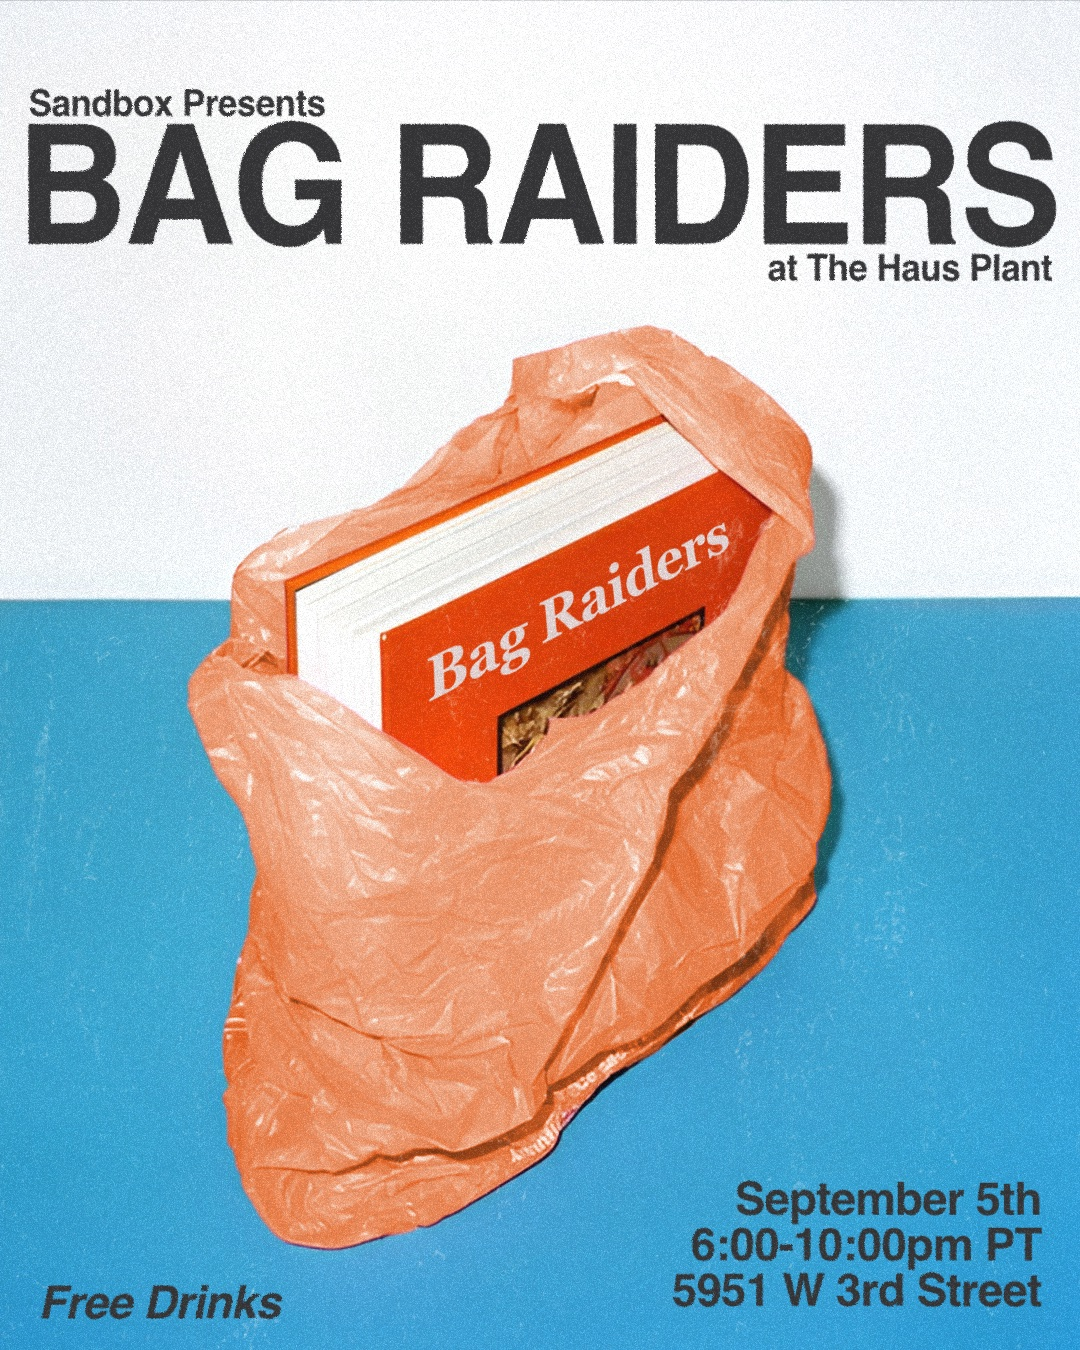
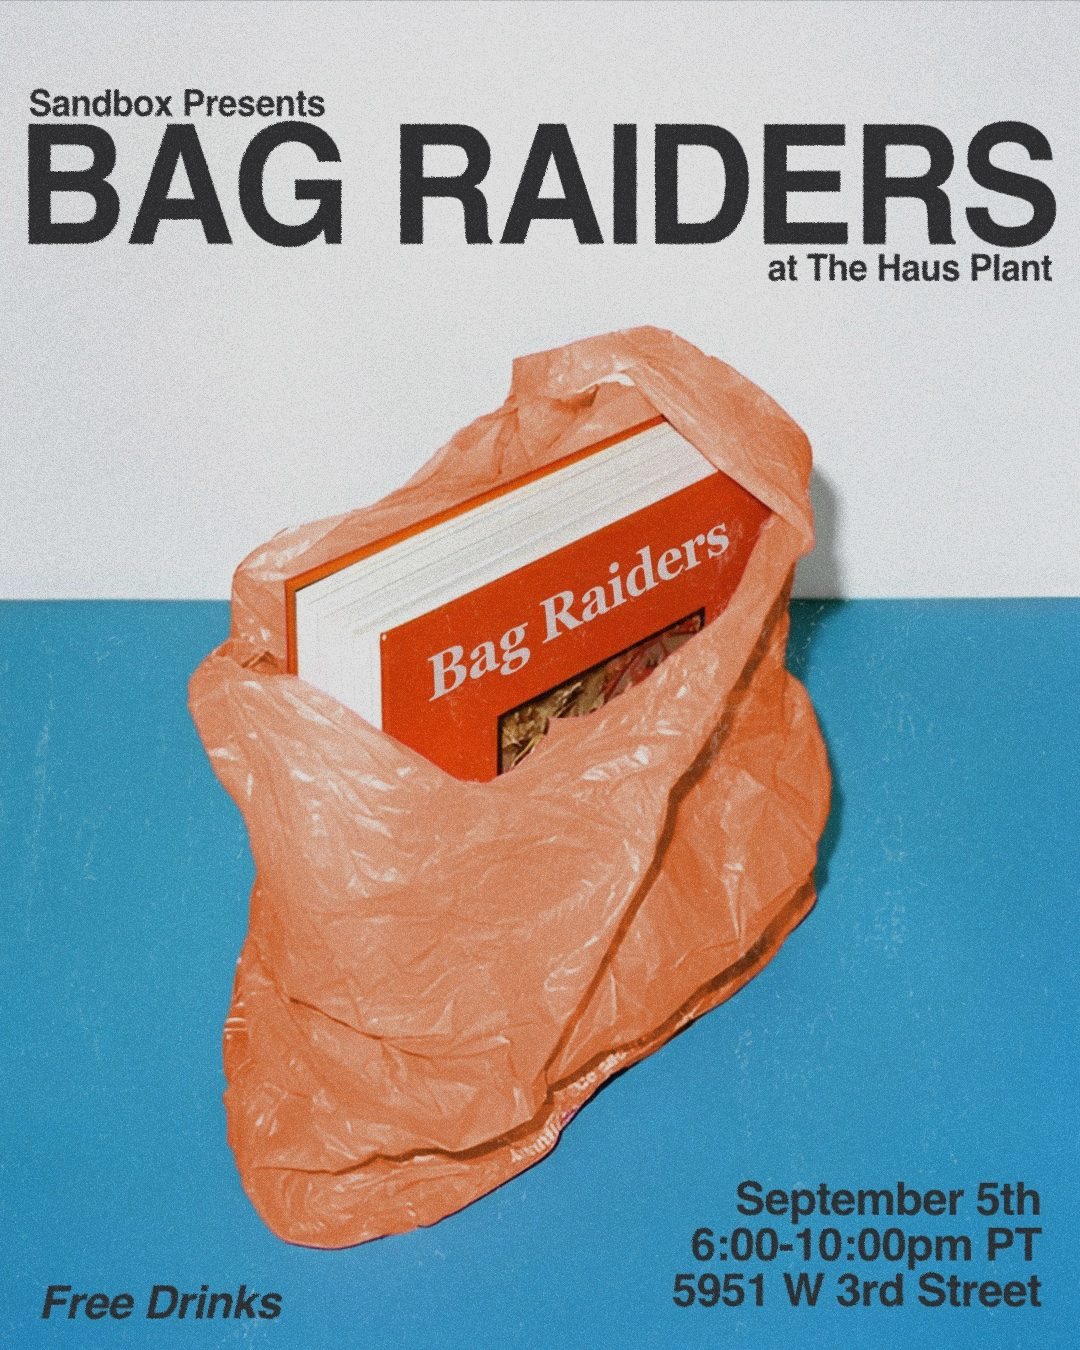
Add motion, hero loading still, compress and align fliers
Scroll reveals, hover states, hero drift and lightbox fade. Fliers resized
to 1080px wide (23 MB to 1.2 MB), all tiles filled so the grid lines up,
Bag Raiders darkened 12%. Fix typo in the Concerts card.

Claude-Session: https://claude.ai/code/session_01YVKtbdHokMYT4HDvKhBzdq

diff --git a/index.html b/index.html
@@ -144,7 +144,7 @@
   flex-direction: column;
   align-items: center;
   gap: 20px;
-  animation: fadeUp 1.2s ease both;
+  animation: fadeUp 1.2s ease backwards;
   margin-top: -60px;
     }
     @keyframes fadeUp {
@@ -507,7 +507,8 @@
 .events-item img {
   width: 100%;
   height: 100%;
-  object-fit: contain;
+  object-fit: cover;
+  object-position: center;
   display: block;
   transition: transform 0.5s ease, opacity 0.5s ease;
 }
@@ -518,6 +519,58 @@
 @media (max-width: 768px) {
   .events-grid { grid-template-columns: repeat(2, 1fr); }
 }
+
+    /* ── MOTION ── */
+    .reveal {
+      opacity: 0;
+      transform: translateY(32px);
+      transition: opacity 0.9s cubic-bezier(.2,.7,.2,1), transform 0.9s cubic-bezier(.2,.7,.2,1);
+      transition-delay: var(--delay, 0s);
+    }
+    .reveal.is-visible { opacity: 1; transform: none; }
+
+    .hero-video { transform: scale(1.06); animation: heroDrift 24s ease-in-out infinite alternate; }
+    @keyframes heroDrift { from { transform: scale(1.06); } to { transform: scale(1.12); } }
+    .hero-content { will-change: transform, opacity; }
+
+    .service-card {
+      position: relative;
+      transition: background 0.5s ease, border-color 0.5s ease;
+    }
+    .service-card::after {
+      content: "";
+      position: absolute;
+      left: 36px; right: 36px; bottom: 0;
+      height: 1px;
+      background: var(--beige);
+      transform: scaleX(0);
+      transform-origin: left;
+      transition: transform 0.6s cubic-bezier(.2,.7,.2,1);
+    }
+    .service-card:hover { background: rgba(232,217,190,0.035); border-color: rgba(232,217,190,0.45); }
+    .service-card:hover::after { transform: scaleX(1); }
+    .service-num, .service-title { transition: color 0.4s ease, transform 0.5s cubic-bezier(.2,.7,.2,1); }
+    .service-card:hover .service-num { color: var(--beige); }
+    .service-card:hover .service-title { transform: translateX(4px); }
+
+    .gallery-item { position: relative; }
+    .gallery-bg { transition: transform 0.9s cubic-bezier(.2,.7,.2,1), filter 0.6s ease; filter: saturate(0.85) brightness(0.9); }
+    .gallery-item:hover .gallery-bg { transform: scale(1.06); filter: saturate(1) brightness(1); }
+
+    .lightbox { display: flex; opacity: 0; visibility: hidden; transition: opacity 0.4s ease, visibility 0.4s; }
+    .lightbox.active { opacity: 1; visibility: visible; }
+    .lightbox-img { transform: scale(0.96); transition: transform 0.5s cubic-bezier(.2,.7,.2,1); }
+    .lightbox.active .lightbox-img { transform: scale(1); }
+
+    .logo img { transition: opacity 0.3s ease; }
+    .logo:hover img { opacity: 0.75; }
+    .nav-links svg { transition: transform 0.3s ease; }
+    .nav-links a:hover svg { transform: translateY(-2px); }
+
+    @media (prefers-reduced-motion: reduce) {
+      .reveal { opacity: 1; transform: none; transition: none; }
+      .hero-video { animation: none; }
+    }
   </style>
 </head>
 <body>
@@ -554,7 +607,7 @@
                   <source src="hero-loop.mp4" type="video/mp4">
                 </video> -->
   <section class="hero">
-  <video class="hero-video" autoplay muted loop playsinline>
+  <video class="hero-video" autoplay muted loop playsinline preload="auto" poster="hero-poster.jpg">
     <source src="hero-loop.mp4" type="video/mp4">
   </video>
   <div class="hero-overlay"></div>
@@ -572,7 +625,7 @@
       <div class="service-card">
         <div class="service-num">01</div>
         <div class="service-title">Sandbox Concerts</div>
-        <div class="service-desc">One-off show concepts built around a specific artists, environments, and emotions. Sandbox handles location scouting, production, promotion, and everything in between. Each show is designed so that the environment and the music are inseparable.</div>
+        <div class="service-desc">One-off show concepts built around specific artists, environments, and emotions. Sandbox handles location scouting, production, promotion, and everything in between. Each show is designed so that the environment and the music are inseparable.</div>
       </div>
       <div class="service-card">
         <div class="service-num">02</div>
@@ -684,6 +737,48 @@ function closeLightbox() {
 document.addEventListener('keydown', e => {
   if (e.key === 'Escape') closeLightbox();
 });
+
+    // Reveal on scroll
+    const revealGroups = [
+      ['.section-label', 0],
+      ['.service-card', 0.12],
+      ['.events-item', 0.08],
+      ['.gallery-item', 0.05],
+      ['.contact > *', 0.1],
+    ];
+    revealGroups.forEach(([sel, step]) => {
+      document.querySelectorAll(sel).forEach((el, i) => {
+        el.classList.add('reveal');
+        el.style.setProperty('--delay', (i * step) + 's');
+      });
+    });
+    if ('IntersectionObserver' in window) {
+      const io = new IntersectionObserver(entries => {
+        entries.forEach(e => {
+          if (e.isIntersecting) { e.target.classList.add('is-visible'); io.unobserve(e.target); }
+        });
+      }, { threshold: 0.12, rootMargin: '0px 0px -40px 0px' });
+      document.querySelectorAll('.reveal').forEach(el => io.observe(el));
+    } else {
+      document.querySelectorAll('.reveal').forEach(el => el.classList.add('is-visible'));
+    }
+
+    // Hero content drifts up and fades as you scroll away
+    const heroContent = document.querySelector('.hero-content');
+    const reduceMotion = window.matchMedia('(prefers-reduced-motion: reduce)').matches;
+    if (heroContent && !reduceMotion) {
+      let ticking = false;
+      window.addEventListener('scroll', () => {
+        if (ticking) return;
+        ticking = true;
+        requestAnimationFrame(() => {
+          const y = Math.min(window.scrollY, window.innerHeight);
+          heroContent.style.transform = `translateY(${y * 0.3}px)`;
+          heroContent.style.opacity = 1 - y / (window.innerHeight * 0.8);
+          ticking = false;
+        });
+      }, { passive: true });
+    }
   </script>
 
 </body>
